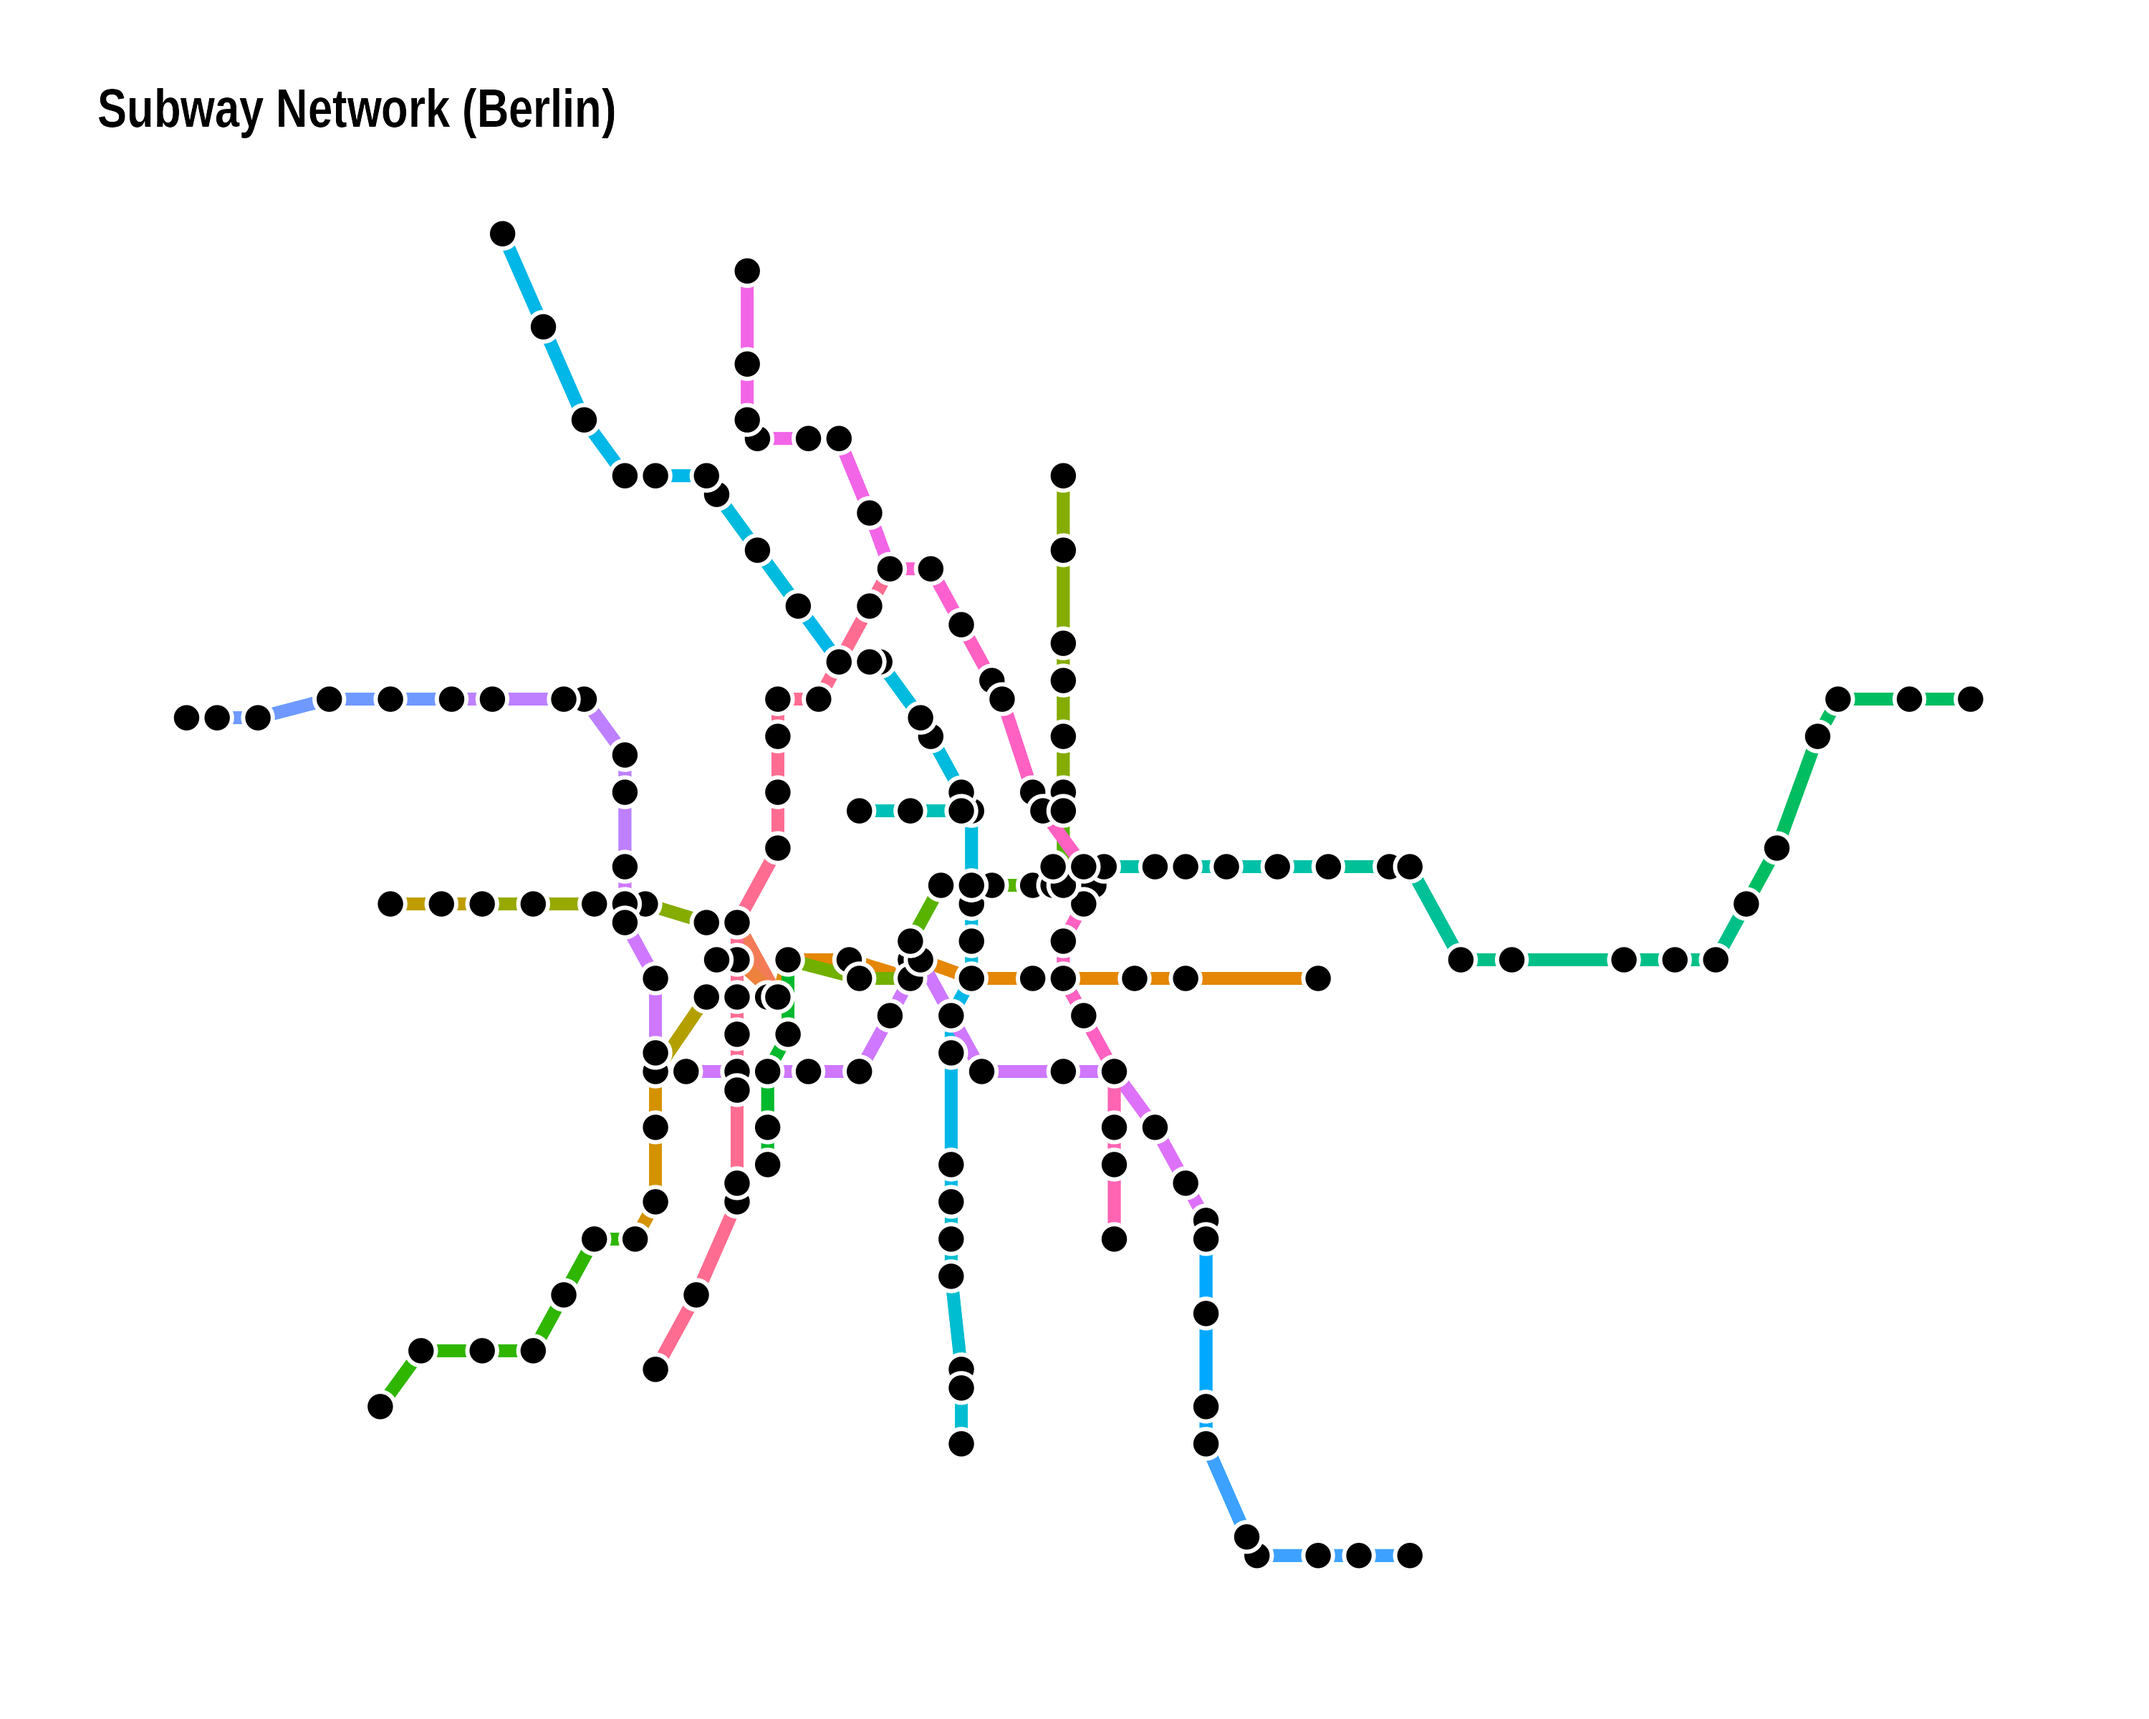
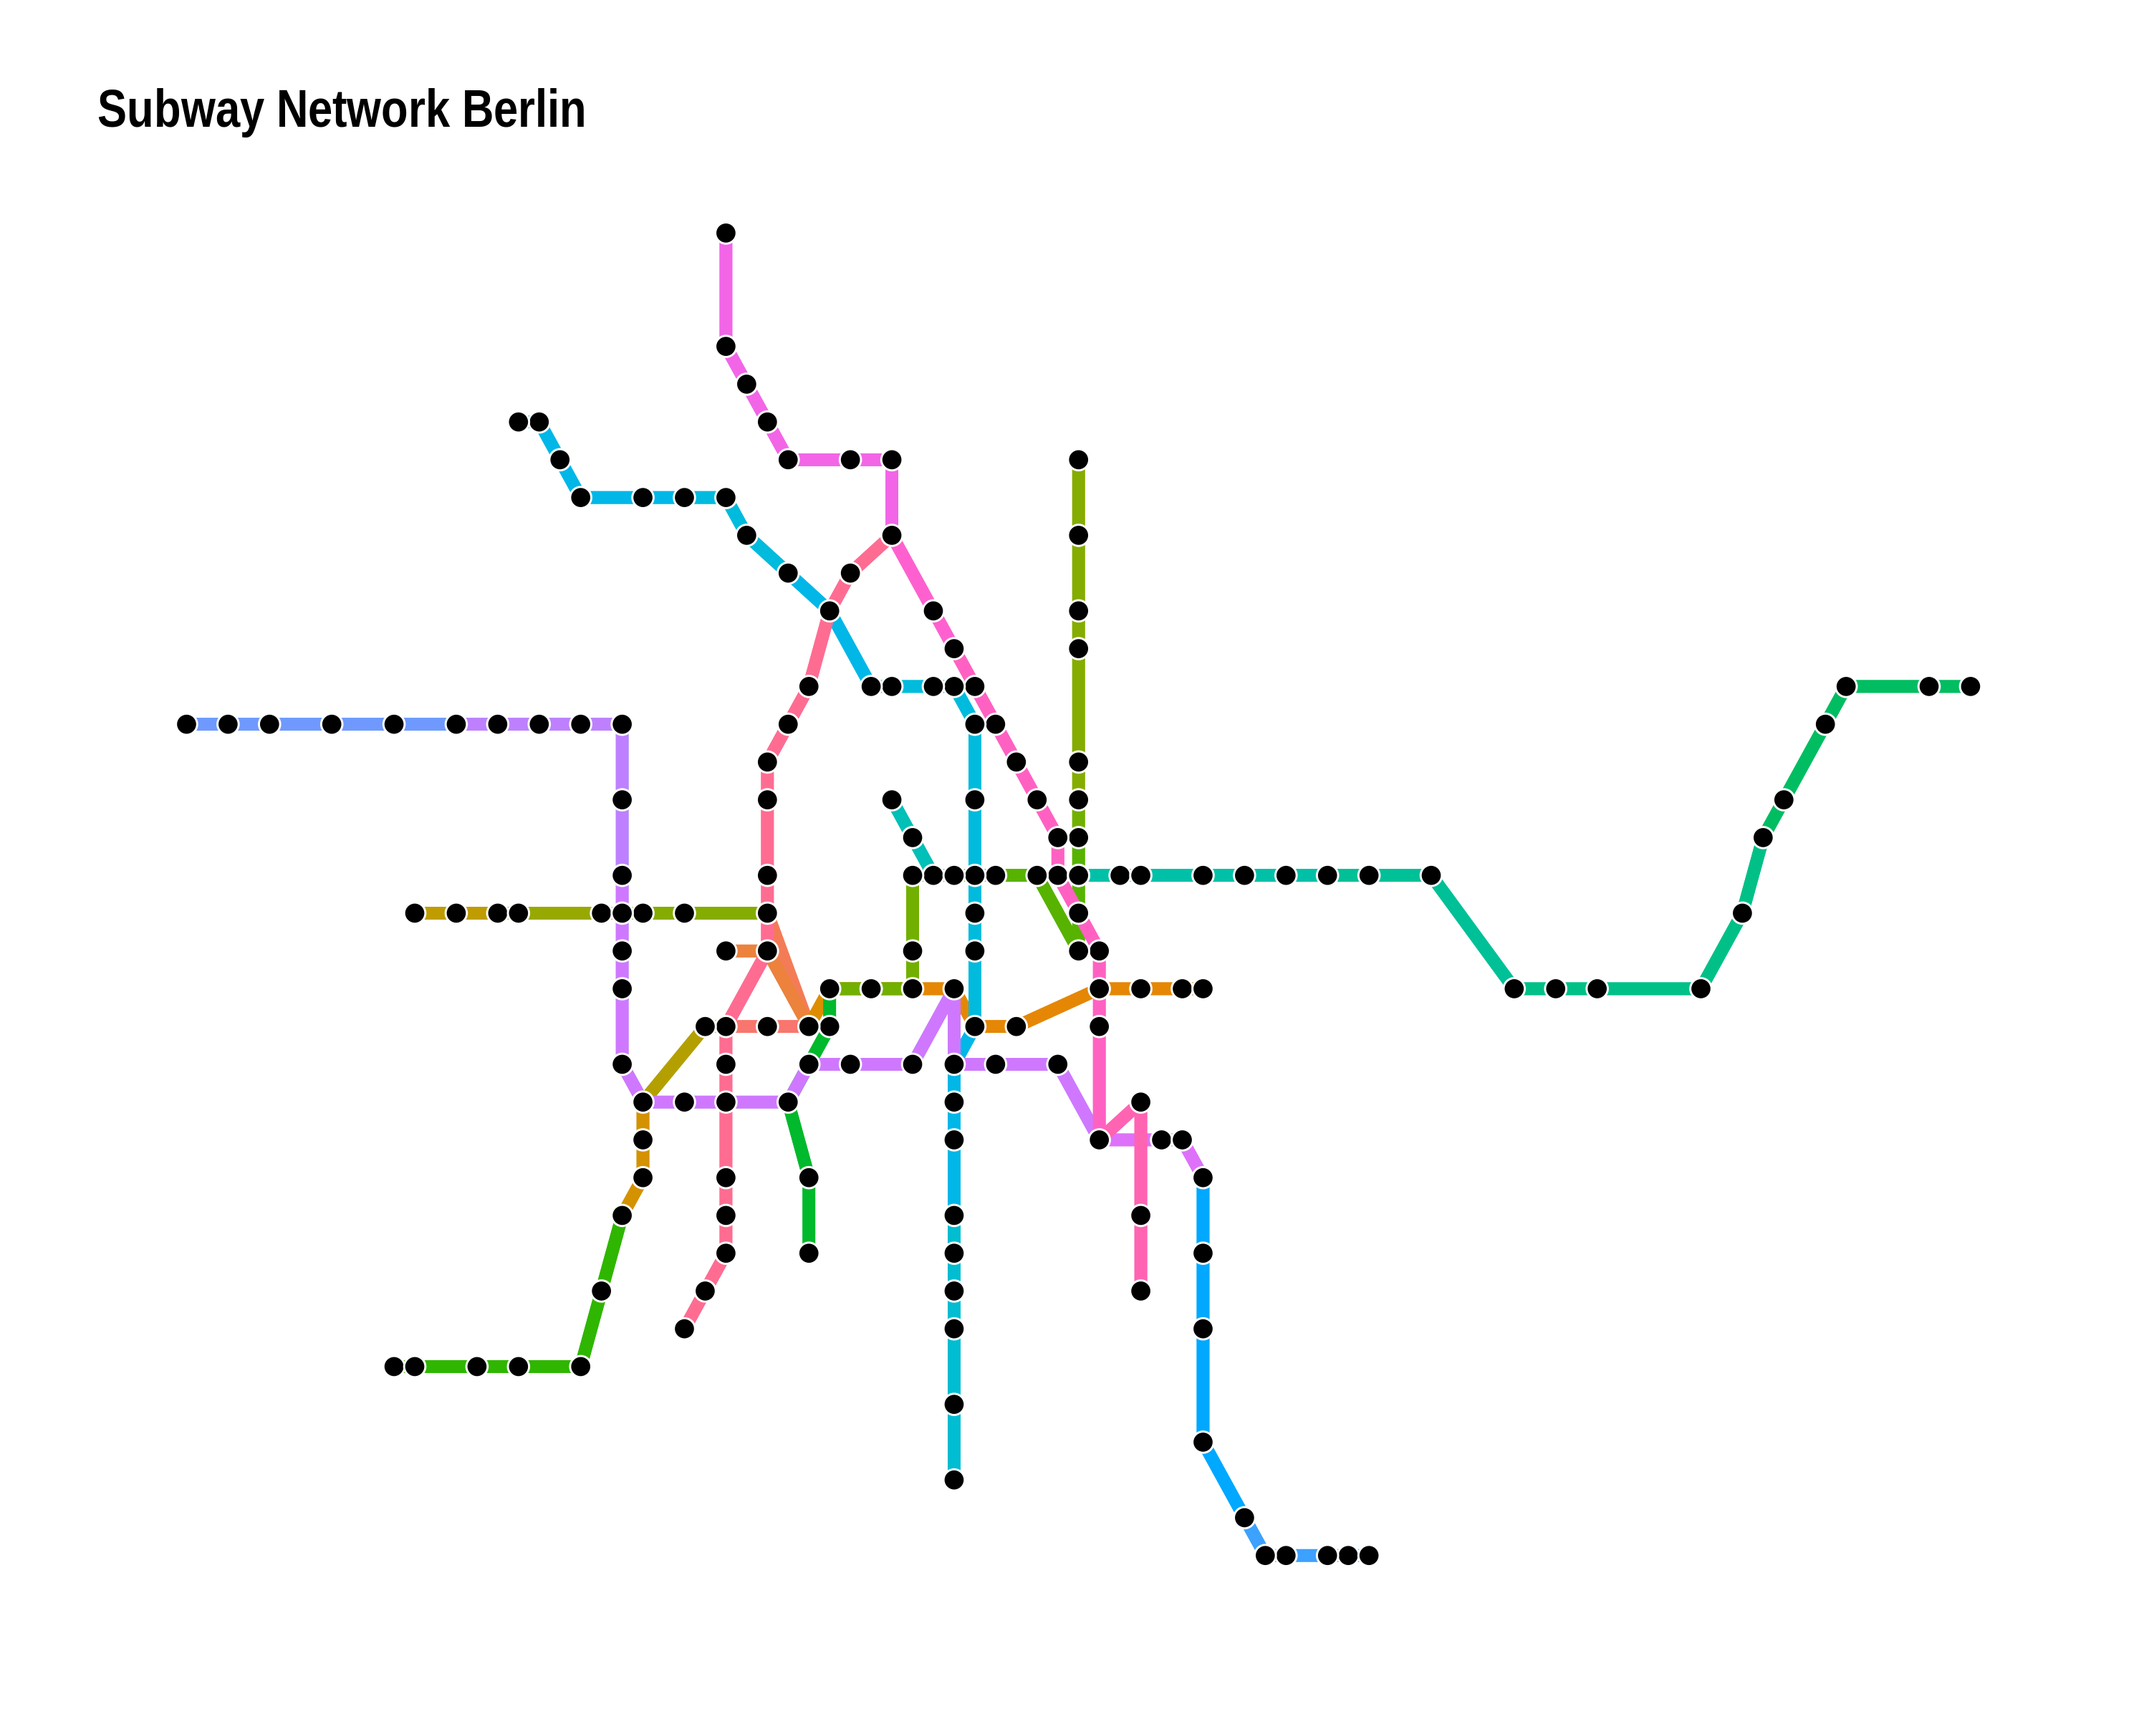
added metro code

diff --git a/README.md b/README.md
@@ -210,6 +210,30 @@ ggraph(gtree,"manual",x=V(gtree)$x,y=V(gtree)$y)+
   labs(title="Migration from California (2010) - Flow map")
 ```
 
+![](man/figures/metro_berlin.png) Code:
+
+``` r
+
+# the algorithm has problems with parallel edges
+g <- simplify(metro_berlin)
+xy <- cbind(V(g)$lon,V(g)$lat)*100
+
+# the algorithm is not very stable. try playing with the parameters
+xy_new <- metro_multicriteria(g,xy,l = 2,gr = 0.5,w = c(100,100,1,1,100),bsize = 35)
+
+# geographic layout
+ggraph(metro_berlin,"manual",x=xy[,1],y=xy[,2])+
+  geom_edge_link0(aes(col=route_I_counts),edge_width=2,show.legend = FALSE)+
+  geom_node_point(shape=21,col="white",fill="black",size=3,stroke=0.5)
+
+#schematic layout
+ggraph(metro_berlin,"manual",x=xy_new[,1],y=xy_new[,2])+
+  geom_edge_link0(aes(col=route_I_counts),edge_width=2,show.legend = FALSE)+
+  geom_node_point(shape=21,col="white",fill="black",size=3,stroke=0.5)+
+  theme_graph()+
+  ggtitle("Subway Network Berlin")
+```
+
 ## Disclaimer
 
 Edge bundling is able to produce neat looking network visualizations.
